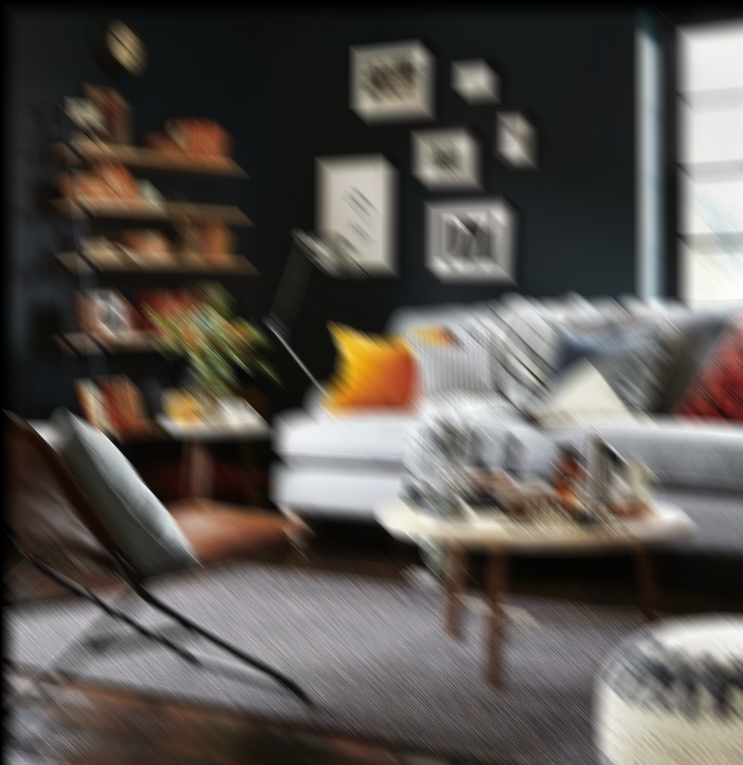
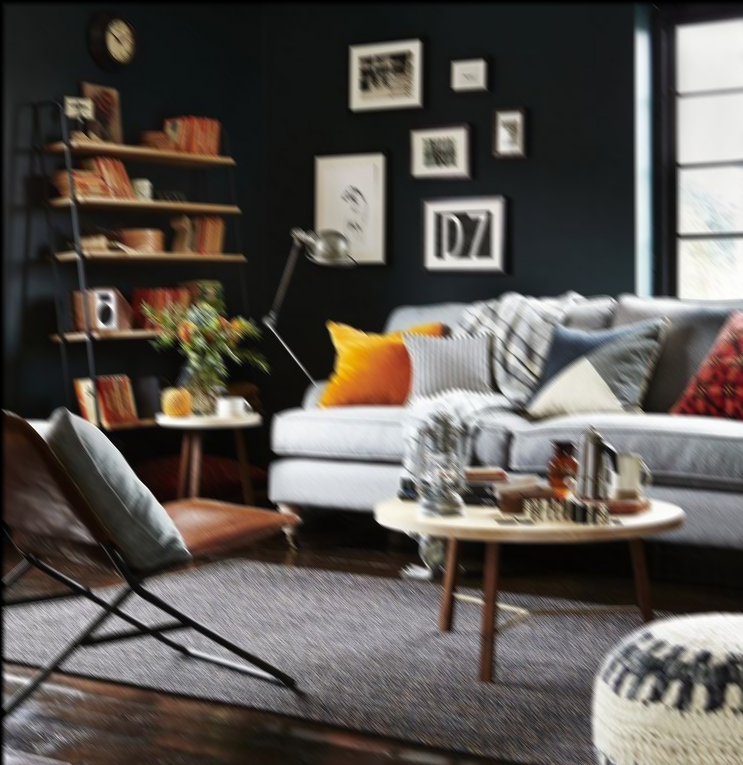
Blrrr

diff --git a/README.md b/README.md
@@ -1,0 +1,11 @@
+# Blrrr
+
+### Kernel Convolution Example
+
+To run:
+
+`mvn clean package`
+
+`java -jar target/blrrr-0.1.jar {{number pixels to blur}}` 
+
+Inspiration: https://www.youtube.com/watch?v=C_zFhWdM4ic
